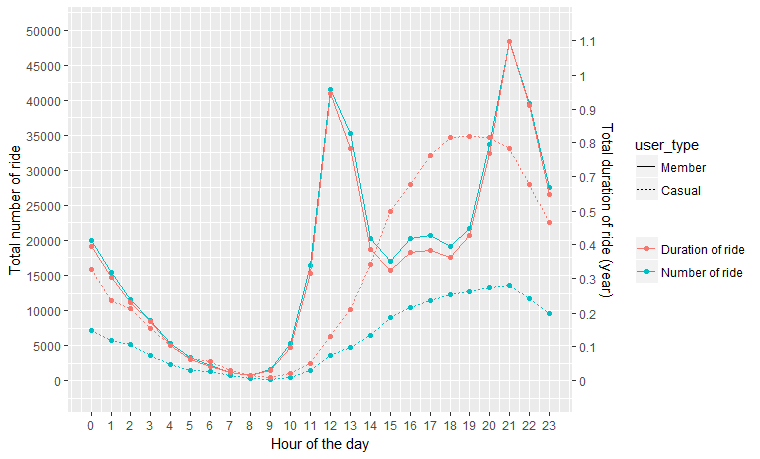
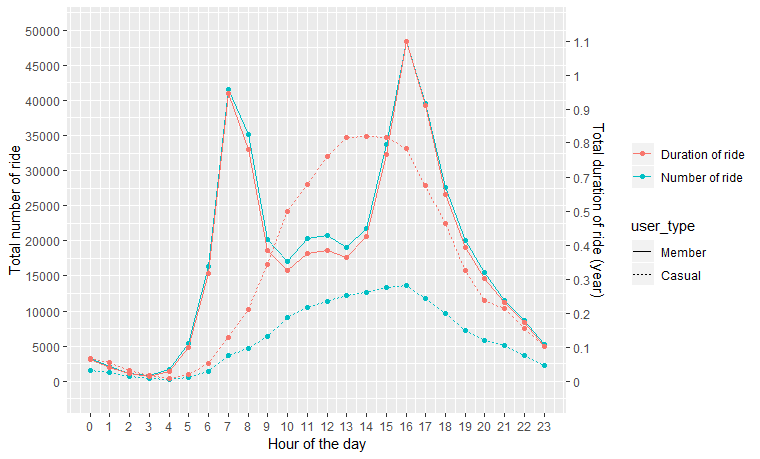
fix timezone graph and readme

diff --git a/README.md b/README.md
@@ -170,7 +170,7 @@ The two furthest stations are: Bloor St W / Dundas St W and Danforth Ave / Barri
 In weekdays, there are more members on the bikes. But in weekend, causal riders roam the city.
 ![](graph/ride_user_type_day_of_week.png)
 
-In a typical day, members are more active between 11 AM and 2 PM, then between 7 PM and 10 PM. On the other hand, casual riders are more active between 3 PM and 10 PM.
+In a typical day, members are more active between 7 AM and 8 AM, then between 3 PM and 5 PM. On the other hand, casual riders are more active between 10 AM and 5 PM.
 ![](graph/ride_user_type_hour_of_day.png)
 
 Futhermore, if looking at mean duration of each ride, members spent about 11 minutes in each trip, regardless hour of the day. There are more fluctuation in the mean duration of each ride for casual riders, they spent from an average of 20 minutes to 33 minutes.
